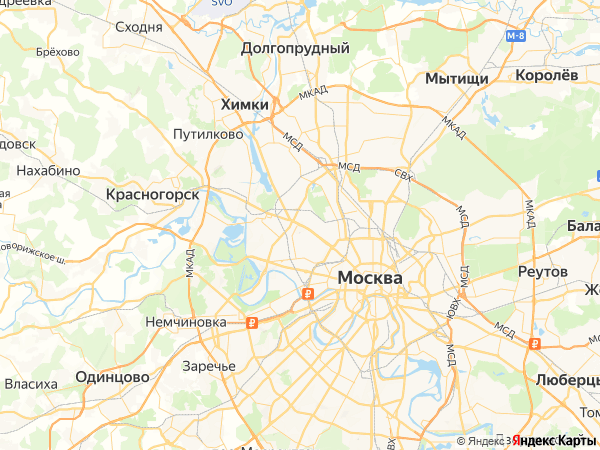
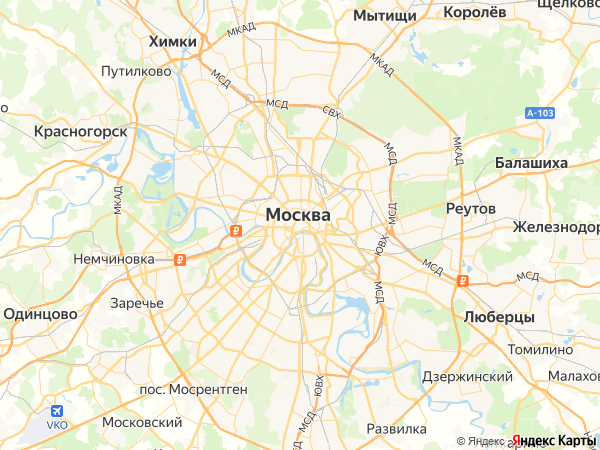
.

diff --git a/API3/namber1.py b/API3/namber1.py
@@ -11,7 +11,7 @@ class MapWindow(QWidget):
         self.setWindowTitle("Yandex Maps API (PyQt6)")
         self.setFixedSize(600, 450)
 
-        # === ПАРАМЕТРЫ КАРТЫ ===
+        
         self.lon = 37.620070
         self.lat = 55.753630
         self.zoom = 10
